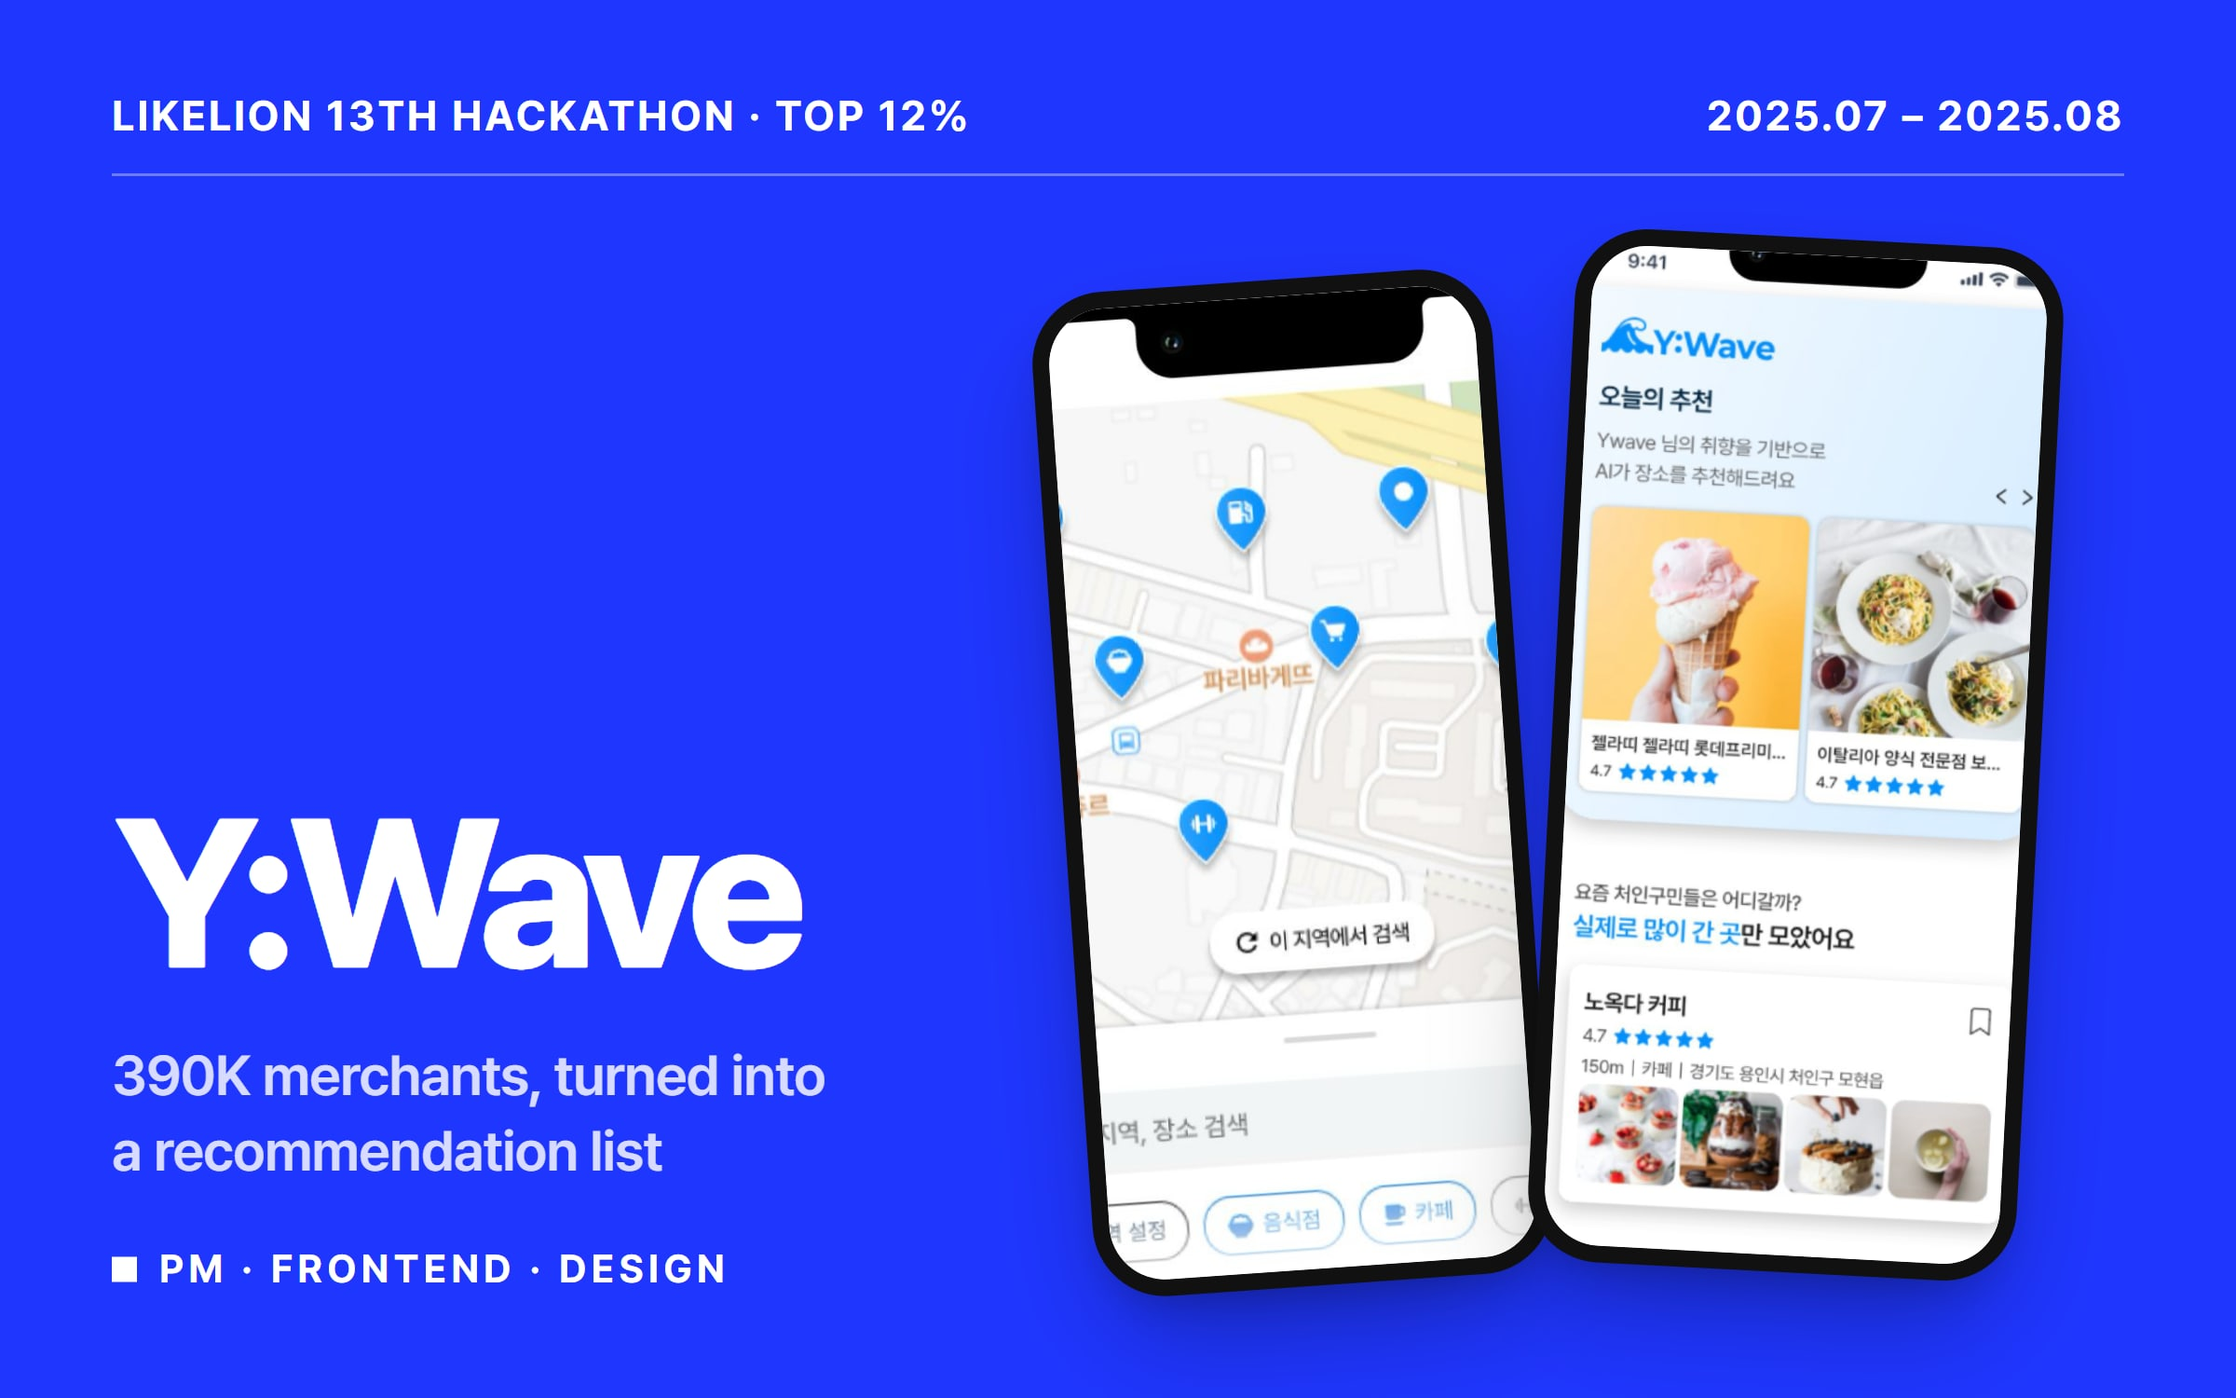
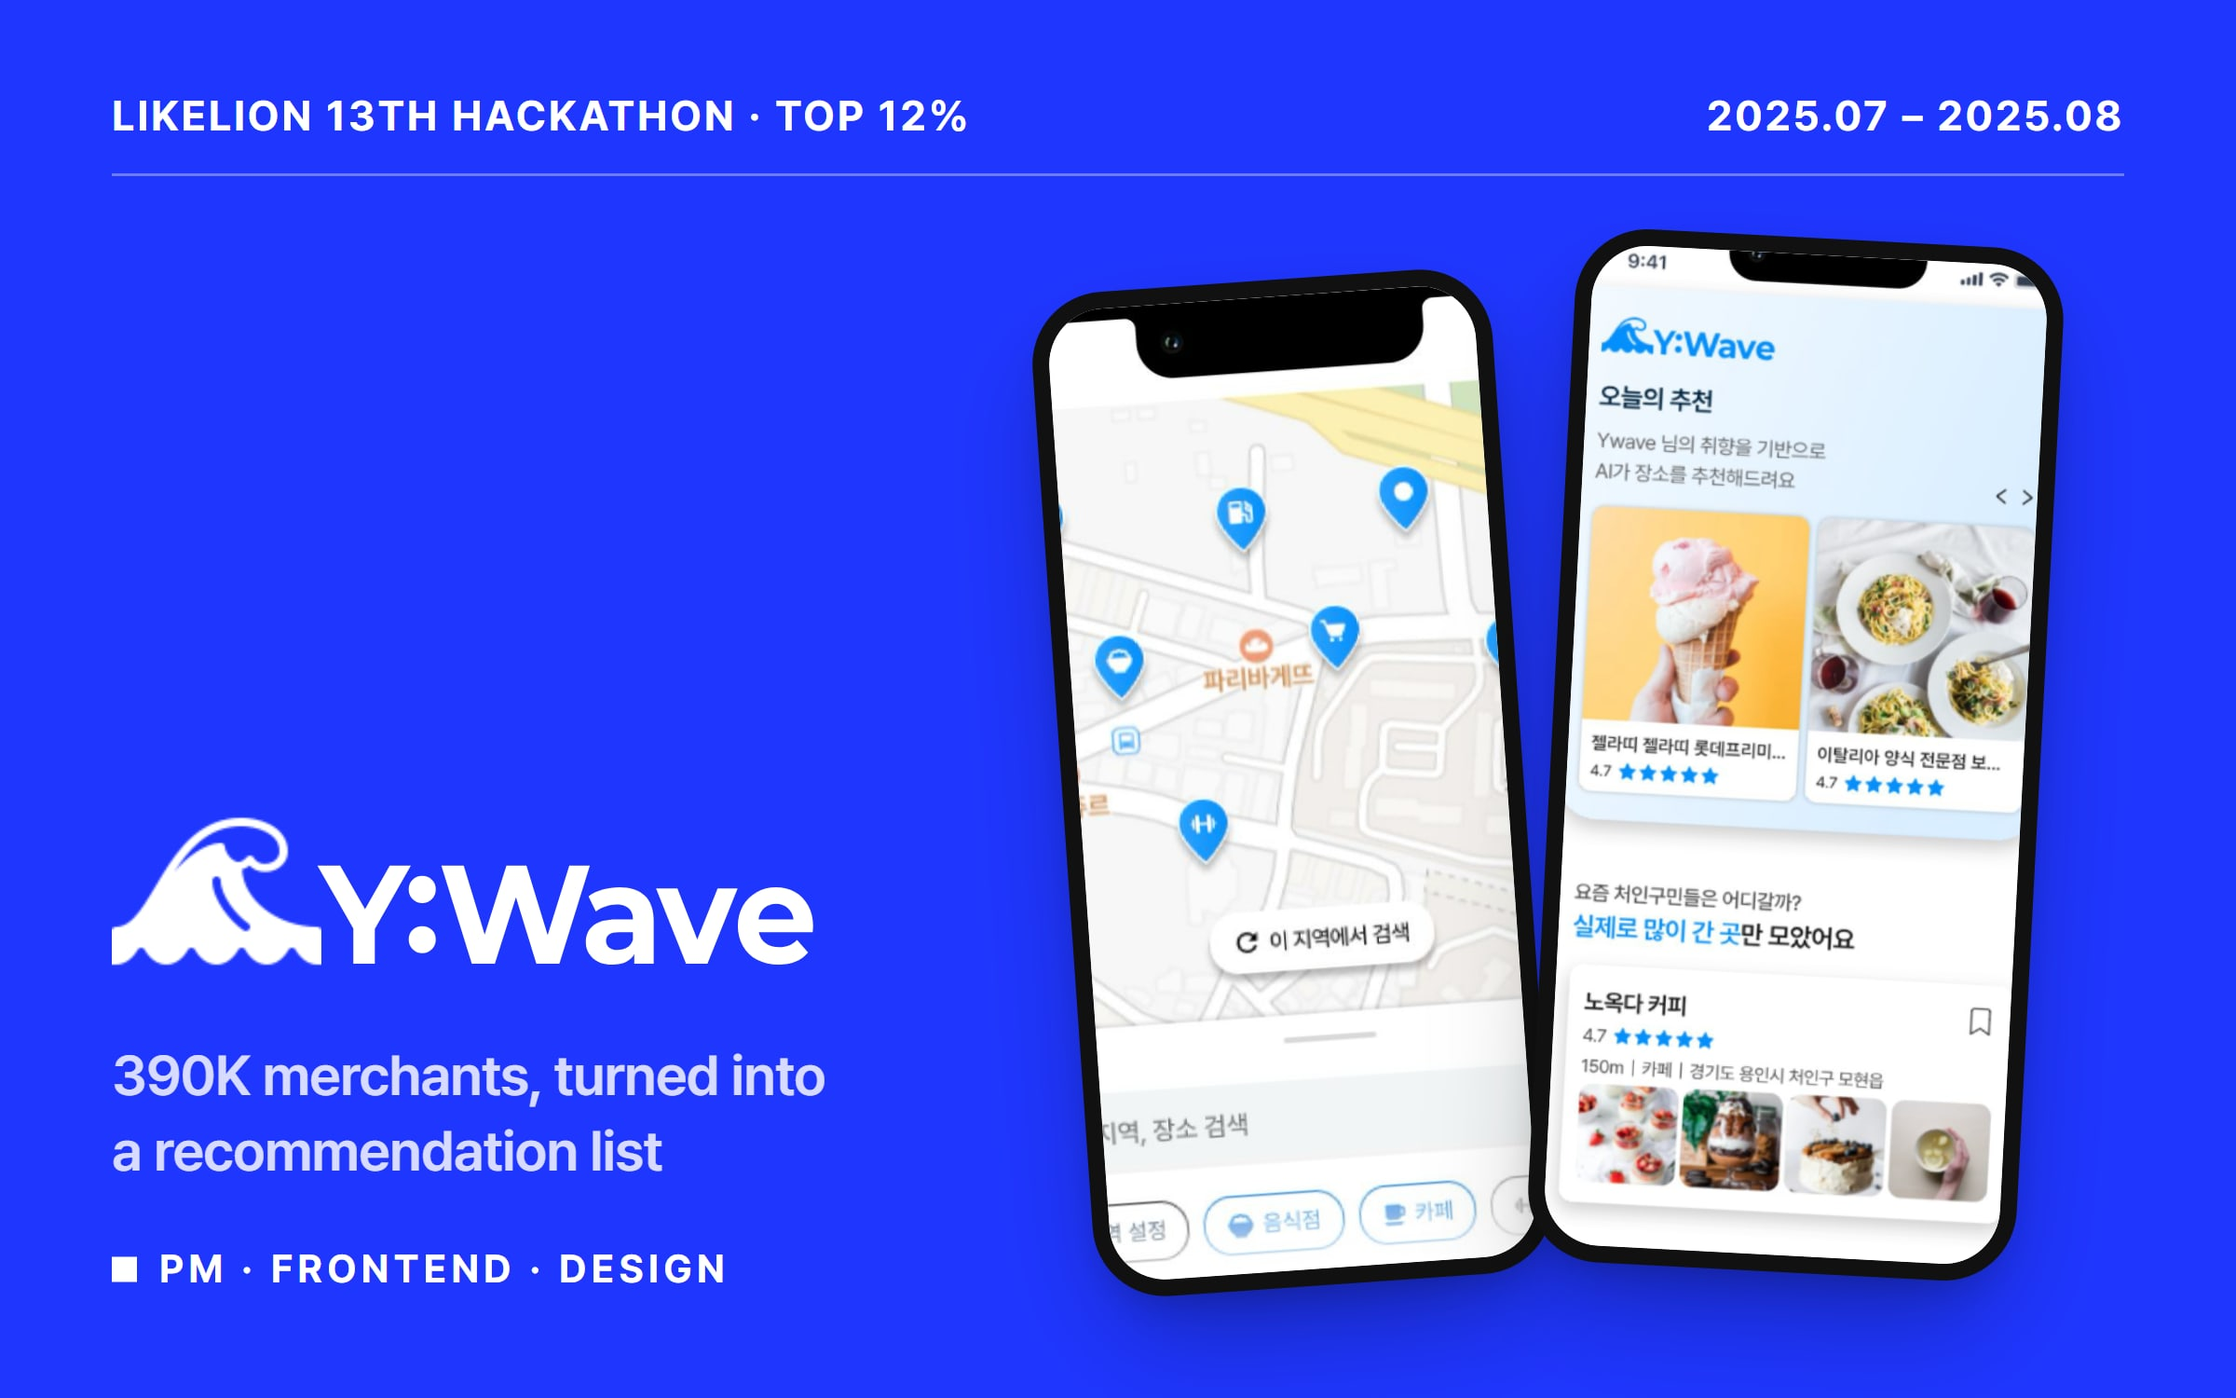
feat: 썸네일 이름 자리를 각 프로젝트 로고로, 소개글을 상현 문안으로 교체
로고 (상현: "ANIMAL LEAGUE는 폰트 말고 로고, 나머지도 로고가 있으면")
- ANIMAL LEAGUE: 로고 파일이 없어 animal-league 저장소 콘솔 배경(public/main.1_background_ver3.png)에
  흰색 반투명(알파 31~77)으로 들어 있는 워드마크를 불투명 마스크로 뽑았다. 대회 락업 그대로
  (ANIMAL / LEAGUE 계단형 + LIKELION UNIV. · 2026 HACKATHON). 색은 카드 뒷면에서 뽑은 주황 #E47424.
- FlowPay: 저장소 public/LOGO.png(542px, 투명). Y:Wave: TitleLogo2.svg, 블루 바탕이라 흰색으로.
- CleanB: RumiCleanFE RowLogo.svg에서 집 심볼만 쓰고 이름은 CleanB 글자로 뒀다. 로고 글자가 'RoomiClean'
  표기인데 사이트 규칙상 그 철자를 쓰지 않는다(PRODUCT.md: never "RoomiClean"). 상현 확인 전까지 이 상태.
- 로고 원본은 design/thumbnails/assets/, 추출 방법은 HTML 머리 주석.

소개글 (상현 2026-09-25 직접 작성, 원문 그대로)
- 멋쟁이사자처럼 인턴 → 병목 업무에 자동화 도구 직접 투입 → 15개+ 서비스에서 알게 된 것 → 지향.
  §G-3 문단을 대체한다. 멋쟁이사자처럼이 첫 화면에 다시 들어온다.
- 영문은 같은 구조로 옮겼다. /ko 본문 562는 2회(소개·숫자 섹션)로 v9 한도 안.
- 소개글이 길어져 en 1280×720에서 숫자 첫 줄이 30px 밀렸다 → 데스크톱 위 여백 pt-20 → pt-16,
  메타 줄 아래 mb-10 → mb-6, 숫자 위 mt-10 → mt-8.

검증
- 첫 화면(이름·헤드라인·숫자 첫 줄 스크롤 없이): ko·en × 1440×900 · 1280×720 · 1024×768 · 390×844 8/8
- 7개 페이지 × 라이트·다크 × 1440·390: 대비 실패 0, 넘침 0 / 200% 확대 넘침 0
- 성과 칸 넘침 0건, 썸네일 렌더링 시 깨진 이미지 0
- tsc·eslint 통과, next build 통과

Changed region(s): [[0.0312, 0.5827, 0.375, 0.7053]]

diff --git a/design/thumbnails/thumbs-ko.html b/design/thumbnails/thumbs-ko.html
@@ -8,6 +8,10 @@
   - assets/: FlowPay는 배포본(flow-pay-seven.vercel.app)을 390·1440 폭에서 캡처, Y:Wave는 원본 화면이 없어
     발표 자료 03·04 슬라이드에서 휴대폰 화면 부분만 잘랐다. 해커톤·CleanB는 public/projects의 원본 화면을 쓴다.
   - 팀원 실명이 있는 슬라이드(Y:Wave 01 등)는 쓰지 않는다.
+  - 이름 자리는 글자 대신 각 프로젝트의 로고(2026-09-25 상현 요청). ANIMAL LEAGUE는 파일이 없어 animal-league 저장소의
+    콘솔 배경(public/main.1_background_ver3.png)에 흰색 반투명으로 들어 있는 워드마크를 불투명 마스크로 뽑고 카드 뒷면의
+    주황(#E47424)을 입혔다. FlowPay public/LOGO.png, Y:Wave ywave-vite/src/Images/TitleLogo2.svg(블루 바탕이라 흰색으로),
+    CleanB는 RumiCleanFE의 RowLogo.svg에서 집 심볼만 — 로고 글자가 'RoomiClean' 표기라 이름은 CleanB로 둔다.
 -->
 <html lang="ko">
 <head>
@@ -22,6 +26,8 @@
   .t.blue { background:var(--blue); color:#fff; --line:rgba(255,255,255,.35); }
   .meta { position:absolute; left:80px; right:80px; top:64px; display:flex; justify-content:space-between; font-size:30px; font-weight:700; letter-spacing:.06em; padding-bottom:24px; border-bottom:2px solid var(--line); }
   .copy { position:absolute; left:80px; bottom:76px; width:620px; z-index:5; }
+  .logo { display:block; }
+  .brand { display:flex; align-items:center; gap:28px; }
   .title { font-size:150px; font-weight:800; letter-spacing:-.055em; line-height:.92; }
   .sub { margin-top:34px; font-size:40px; font-weight:600; line-height:1.35; letter-spacing:-.02em; opacity:.82; }
   .role { margin-top:40px; font-size:28px; font-weight:700; letter-spacing:.12em; }
@@ -54,7 +60,7 @@
 <section class="t ink" id="hackathon14">
   <div class="meta"><span>멋쟁이사자처럼 14기 중앙해커톤</span><span>2026.06 – 2026.08</span></div>
   <div class="copy">
-    <div class="title">ANIMAL<br/>LEAGUE</div>
+    <img class="logo" src="assets/al_logo_orange.png" alt="ANIMAL LEAGUE" style="width:620px" />
     <div class="sub">기획부터 본선 운영까지,<br/>현장 운영 도구 직접 제작</div>
     <div class="role">기획 · 운영</div>
   </div>
@@ -71,7 +77,7 @@
 <section class="t" id="flowpay">
   <div class="meta"><span>FIN:NECT 챌린지 · 102팀 중 5위</span><span>2025.06 – 2025.08</span></div>
   <div class="copy">
-    <div class="title">FlowPay</div>
+    <img class="logo" src="assets/fp_logo.png" alt="FlowPay" style="height:190px" />
     <div class="sub">무기명 법인카드 정산,<br/>8단계에서 3단계로</div>
     <div class="role">PM · 프론트엔드 · IR</div>
   </div>
@@ -88,7 +94,7 @@
 <section class="t blue" id="ywave">
   <div class="meta"><span>멋쟁이사자처럼 13기 중앙해커톤 · 상위 12%</span><span>2025.07 – 2025.08</span></div>
   <div class="copy">
-    <div class="title">Y:Wave</div>
+    <img class="logo" src="assets/yw_title2.svg" alt="Y:Wave" style="height:150px; filter:brightness(0) invert(1)" />
     <div class="sub">경기도 가맹점 39만 건을<br/>추천 리스트로</div>
     <div class="role">PM · 프론트엔드 · 디자인</div>
   </div>
@@ -104,7 +110,7 @@
 <section class="t" id="cleanb">
   <div class="meta"><span>외주 프로젝트 · 루미클린</span><span>2025.11 –</span></div>
   <div class="copy">
-    <div class="title">CleanB</div>
+    <div class="title brand"><img src="assets/rc_icon.png" alt="" style="height:128px" />CleanB</div>
     <div class="sub">에어비앤비 청소 매칭,<br/>전·후 사진으로 완료 인증</div>
     <div class="role">PM · 프론트엔드 · 디자인</div>
   </div>

diff --git a/design/thumbnails/thumbs.html b/design/thumbnails/thumbs.html
@@ -8,6 +8,10 @@
   - assets/: FlowPay는 배포본(flow-pay-seven.vercel.app)을 390·1440 폭에서 캡처, Y:Wave는 원본 화면이 없어
     발표 자료 03·04 슬라이드에서 휴대폰 화면 부분만 잘랐다. 해커톤·CleanB는 public/projects의 원본 화면을 쓴다.
   - 팀원 실명이 있는 슬라이드(Y:Wave 01 등)는 쓰지 않는다.
+  - 이름 자리는 글자 대신 각 프로젝트의 로고(2026-09-25 상현 요청). ANIMAL LEAGUE는 파일이 없어 animal-league 저장소의
+    콘솔 배경(public/main.1_background_ver3.png)에 흰색 반투명으로 들어 있는 워드마크를 불투명 마스크로 뽑고 카드 뒷면의
+    주황(#E47424)을 입혔다. FlowPay public/LOGO.png, Y:Wave ywave-vite/src/Images/TitleLogo2.svg(블루 바탕이라 흰색으로),
+    CleanB는 RumiCleanFE의 RowLogo.svg에서 집 심볼만 — 로고 글자가 'RoomiClean' 표기라 이름은 CleanB로 둔다.
 -->
 <html lang="en">
 <head>
@@ -22,6 +26,8 @@
   .t.blue { background:var(--blue); color:#fff; --line:rgba(255,255,255,.35); }
   .meta { position:absolute; left:80px; right:80px; top:64px; display:flex; justify-content:space-between; font-size:30px; font-weight:700; letter-spacing:.06em; padding-bottom:24px; border-bottom:2px solid var(--line); }
   .copy { position:absolute; left:80px; bottom:76px; width:620px; z-index:5; }
+  .logo { display:block; }
+  .brand { display:flex; align-items:center; gap:28px; }
   .title { font-size:150px; font-weight:800; letter-spacing:-.055em; line-height:.92; }
   .sub { margin-top:34px; font-size:40px; font-weight:600; line-height:1.35; letter-spacing:-.02em; opacity:.82; }
   .role { margin-top:40px; font-size:28px; font-weight:700; letter-spacing:.12em; }
@@ -50,7 +56,7 @@
 <section class="t ink" id="hackathon14">
   <div class="meta"><span>LIKELION 14TH HACKATHON</span><span>2026.06 – 2026.08</span></div>
   <div class="copy">
-    <div class="title">ANIMAL<br/>LEAGUE</div>
+    <img class="logo" src="assets/al_logo_orange.png" alt="ANIMAL LEAGUE" style="width:620px" />
     <div class="sub">Planned and run end to end,<br/>with the ops tools I built</div>
     <div class="role">PLANNING &amp; OPS</div>
   </div>
@@ -67,7 +73,7 @@
 <section class="t" id="flowpay">
   <div class="meta"><span>FIN:NECT CHALLENGE · 5TH OF 102</span><span>2025.06 – 2025.08</span></div>
   <div class="copy">
-    <div class="title">FlowPay</div>
+    <img class="logo" src="assets/fp_logo.png" alt="FlowPay" style="height:190px" />
     <div class="sub">Corporate-card expenses,<br/>8 steps down to 3</div>
     <div class="role">PM · FRONTEND · IR</div>
   </div>
@@ -84,7 +90,7 @@
 <section class="t blue" id="ywave">
   <div class="meta"><span>LIKELION 13TH HACKATHON · TOP 12%</span><span>2025.07 – 2025.08</span></div>
   <div class="copy">
-    <div class="title">Y:Wave</div>
+    <img class="logo" src="assets/yw_title2.svg" alt="Y:Wave" style="height:150px; filter:brightness(0) invert(1)" />
     <div class="sub">390K merchants, turned into<br/>a recommendation list</div>
     <div class="role">PM · FRONTEND · DESIGN</div>
   </div>
@@ -100,7 +106,7 @@
 <section class="t" id="cleanb">
   <div class="meta"><span>CLIENT PROJECT · RUMICLEAN</span><span>2025.11 –</span></div>
   <div class="copy">
-    <div class="title">CleanB</div>
+    <div class="title brand"><img src="assets/rc_icon.png" alt="" style="height:128px" />CleanB</div>
     <div class="sub">Airbnb cleaning, proven with<br/>before-and-after photos</div>
     <div class="role">PM · FRONTEND · DESIGN</div>
   </div>

diff --git a/src/components/sections/hero.tsx b/src/components/sections/hero.tsx
@@ -26,7 +26,7 @@ export function Hero() {
   return (
     <section
       id="hero"
-      className="gutter grid grid-cols-1 gap-x-14 pb-16 pt-20 [grid-template-areas:'meta'_'photo'_'lead'_'metrics'_'summary'] md:min-h-svh md:grid-cols-[minmax(0,1fr)_minmax(0,3fr)] md:grid-rows-[auto_1fr_auto_auto] md:pb-16 md:pt-20 md:[grid-template-areas:'meta_meta'_'photo_lead'_'photo_summary'_'metrics_metrics']"
+      className="gutter grid grid-cols-1 gap-x-14 pb-16 pt-20 [grid-template-areas:'meta'_'photo'_'lead'_'metrics'_'summary'] md:min-h-svh md:grid-cols-[minmax(0,1fr)_minmax(0,3fr)] md:grid-rows-[auto_1fr_auto_auto] md:pb-16 md:pt-16 md:[grid-template-areas:'meta_meta'_'photo_lead'_'photo_summary'_'metrics_metrics']"
     >
       <MetaRow
         items={[
@@ -39,7 +39,7 @@ export function Hero() {
             {profile.links.email}
           </a>,
         ]}
-        className="mb-8 border-b border-foreground pb-3 text-muted-foreground [grid-area:meta] md:mb-10"
+        className="mb-8 border-b border-foreground pb-3 text-muted-foreground [grid-area:meta] md:mb-6"
       />
 
       {/* 원본(689×886) 비율 그대로, 컬러 */}
@@ -74,7 +74,7 @@ export function Hero() {
         <Emph text={t("summary")} />
       </p>
 
-      <dl className="mt-8 grid grid-cols-2 border-t border-foreground [grid-area:metrics] md:mt-10 md:grid-cols-4">
+      <dl className="mt-8 grid grid-cols-2 border-t border-foreground [grid-area:metrics] md:mt-8 md:grid-cols-4">
         {metrics.map(({ v, k }, i) => (
           <div
             key={k}

diff --git a/PORTFOLIO.md b/PORTFOLIO.md
@@ -5,9 +5,9 @@
 
 **사용자의 실제 행동에서 답을 찾아, 직접 만들어 배포하는 서비스 기획자**
 
-회계담당자 인터뷰에서 정산을 늦추는 원인이 결제 이후의 수기 전표에 있다는 것을 찾았고, 가맹점 데이터를 전수 분석해 사용자에게 필요한 것이 지도보다 추천 리스트라는 것을 확인했습니다. 찾은 답을 화면부터 백엔드, AI 도구까지 직접 만들어 배포하고 운영하면서, 기획의 설득력은 완성된 화면보다 사용자를 두고 어떤 근거로 무엇을 결정했는지에서 나온다는 것을 알게 됐습니다. 이를 바탕으로 앞으로는 사용자가 남기는 데이터에 집중해 다음 결정을 내리고, 그 결정을 다시 사용자에게서 확인하는 기획자가 되고자 합니다.
+멋쟁이사자처럼 인턴으로 80개 대학 커뮤니티 플랫폼을 기획·운영하고 2,000명 규모 중앙해커톤을 기획부터 본선 운영까지 맡았습니다. 운영 인력이 한정된 상황에서 참가자 문의 응대, 562개 레포 제출물 검사, 본선 결과 집계처럼 병목이 생기던 업무에 자동화 도구를 직접 개발해 투입했습니다. 이 외에도 2년간 15개 이상 서비스의 화면부터 백엔드, AI 도구까지 직접 만들어 배포하고 운영하면서, 기획의 설득력은 완성된 화면보다 사용자를 두고 어떤 근거로 무엇을 결정했는지에서 나온다는 것을 알게 됐습니다. 이를 바탕으로 앞으로는 사용자가 남기는 데이터로 다음 결정을 내리고, 그 결정을 다시 사용자에게서 확인하는 기획자가 되고자 합니다.
 
-**사이트 구성 메모 (HANDOFF §G, 2026-09-24)**: 표지(Portfolio 워드마크)를 없애고 첫 화면에 메타 줄(이름 · 서비스 기획 · PM · 이메일)·사진·포지셔닝 문장·위 소개 한 문단·숫자 4개를 둡니다(1440×900·390×844에서 스크롤 없이 이름·헤드라인·숫자 첫 줄이 보이는 것이 기준). 소개 문단에는 멋쟁이사자처럼 소속·기수를 쓰지 않습니다(경력에 있음). 역할 라벨은 '서비스 기획 · PM'(EN Service Planning · PM)입니다. 학력·교육·자격증·병역은 소개 바로 아래 "Profile." 블록에 이력서처럼 보여 줍니다.
+**사이트 구성 메모 (HANDOFF §G, 2026-09-24)**: 표지(Portfolio 워드마크)를 없애고 첫 화면에 메타 줄(이름 · 서비스 기획 · PM · 이메일)·사진·포지셔닝 문장·위 소개 한 문단·숫자 4개를 둡니다(1440×900·390×844에서 스크롤 없이 이름·헤드라인·숫자 첫 줄이 보이는 것이 기준). 소개 문단은 상현이 2026-09-25에 직접 쓴 위 문단입니다(멋사 인턴 → 병목 업무 자동화 도구 → 15개+ 서비스에서 알게 된 것 → 지향). 역할 라벨은 '서비스 기획 · PM'(EN Service Planning · PM)입니다. 학력·교육·자격증·병역은 소개 바로 아래 "Profile." 블록에 이력서처럼 보여 줍니다.
 
 **도구 전→후 (상현 진술, 2026.09.22 · 09.24 보완)**: 참가자 문의는 봇 이전에 운영진이 직접 답변, 하루 3시간 → 봇 도입 후 운영진은 하루 15분(봇 로그 확인·빠진 답 보강 포함), 92% 감소((180−15)/180). 한 달 229건 중 80.8% 즉답·미응답 0. 제출물 562개 레포는 수작업 확인 → check.py 1회 전수 검사(수작업 약 2일은 추정치라 사이트에서는 쓰지 않음). 본선 결과는 집계 후 PPT로 공개 → 투표 즉시 스크린 반영(콘솔, 실측 2.2초). 13기 세션 출석은 수기 출석부 → 웰컴키트 PWA QR 스캔 자동 기록(부원 45명).
 
